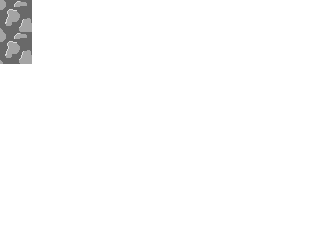
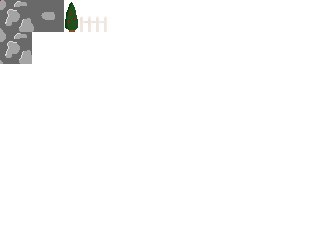
Fix plotting

Changed region(s): [[0.0938, 0.0, 0.3438, 0.1458]]

diff --git a/lib/maps/RayCastMap.js b/lib/maps/RayCastMap.js
@@ -21,8 +21,9 @@
 
 		},
 
-		set: function (x, y, w, h, depth, col, texX) {
+		set: function (x, y, w, h, depth, col, texX, i) {
 
+			this.i = i;
 			this.x = x;
 			this.y = y;
 			this.w = w;
@@ -38,23 +39,24 @@
 
 			var c = gfx.ctx;
 
-			if (!this.texX) {
+			if (this.texX === null) {
 
 				c.fillStyle = this.col;
 				c.fillRect(this.x, this.y, this.w, this.h);
 				return;
+
 			}
 
 			var scale = 1;
 			gfx.ctx.drawImage(
 				this.map.sheet,
-				this.texX % (16 * (1 - game.screen.player.depth)),
+				this.texX,
 				0,
-				this.w,
-				64,
+				1,
+				32,
 				this.x,
 				this.y,
-				this.w * scale,
+				this.w,
 				this.h);
 
 		}
@@ -122,17 +124,17 @@
 					//var strip = screenStrips[stripIdx];
 					var dist = Math.sqrt(hit.dist);
 
-					// use perpendicular distance to adjust for fish eye
 					// distorted_dist = correct_dist / cos(relative_angle_of_ray)
-					// DO THIS FOR FRACTALLL! dist = dist * Math.cos(rayAngle) / 4;//p.rotation - hit.angle);
-					dist = dist * Math.cos(rayAngle) / Math.max(1, game.screen.player.depth * 4);//p.rotation - hit.angle);
+					dist = dist * Math.cos(rayAngle) / Math.max(1, game.screen.player.depth * 1);//p.rotation - hit.angle);
 
 					// now calc the position, height and width of the wall strip
 					// "real" wall height in the game world is 1 unit, the distance from the player to the screen is viewDist,
 					// thus the height on the screen is equal to wall_height_real * viewDist / dist
-					var height = Math.round(viewDistance / dist);
-					var width = height * stripWidth;
-					var top = Math.round((Ω.env.h - height) / 2);
+					var height = viewDistance / dist | 0;
+					var width = (viewDistance / dist | 0) * stripWidth;
+					var top = (Ω.env.h - height) / 2;
+
+
 
 					var c = 100 - Math.min(100, (Math.abs(dist) + 1) * 13 | 0),
 						hitC = hit.cell || 10,
@@ -145,21 +147,15 @@
 
 						var texX = null;
 
-						if (hit.cell == 1) {
+						if (hit.cell < 10) {
 
-							texX = Math.round(hit.textureX * width) / 16;
-
-
-							if (texX > width - stripWidth)
-								texX = width - stripWidth;
-							//texX += (hit.shaded ? width : 0);
+							texX = ((hit.cell - 1) * 16) +  Math.floor(hit.textureX * 16);
 
 						}
-						strip.set(i * stripWidth, top, stripWidth, height, hit.dist, "hsl(" + (hitC * 30) + ", " + sat + "%, " + c + "%)", texX);
+						strip.set(i * stripWidth, top, stripWidth, height, hit.dist, "hsl(" + (hitC * 30) + ", " + sat + "%, " + c + "%)", texX, i);
 					} else {
-						strip.set(i * stripWidth, top, stripWidth, height, hit.dist, "hsl(" + (hitC * 30) + ", " + sat + "%, 0%)", null)
+						strip.set(i * stripWidth, top, stripWidth, height, hit.dist, "hsl(" + (hitC * 30) + ", " + sat + "%, 0%)", null, i)
 					}
-
 
 					rays.push({start: [p.x + p.w / 2, p.y + p.h / 2], end: [hit.x, hit.y]})
 				}

diff --git a/scripts/screens/MainScreen.js b/scripts/screens/MainScreen.js
@@ -11,16 +11,16 @@
 
 		init: function () {
 
-			this.player = new Player(16, 16);
+			this.player = new Player(32, 32);
 			this.map = new Ω.RayCastMap(this.sheet, [
-				[1,2,3,2,3,2,3,2,3,2,3,2,3,2,3,2,3,2,3,2,3,2,3,2,3,2,3,2,3,2,3,2,3,2,3,2,3,2,3,2,3,2,3,2,3,2,3,2,3,2,3,2,3,2,1],
-				[1,0,0,0,0,0,0,0,0,0,0,0,0,0,0,0,0,0,0,0,0,0,0,0,0,0,0,0,0,0,0,0,0,0,0,0,0,0,0,0,0,0,0,0,0,0,0,0,0,0,0,0,0,0,1],
-				[1,0,0,0,0,0,0,0,0,0,0,0,0,0,0,0,0,0,0,0,0,0,0,0,0,0,0,0,0,0,0,0,0,0,0,0,0,0,0,0,0,0,0,0,0,0,0,0,0,0,0,0,0,0,1],
-				[1,0,0,0,0,0,0,0,0,0,0,0,0,0,0,0,0,0,0,0,0,0,0,0,0,0,0,0,0,0,0,0,0,0,0,0,0,0,0,0,0,0,0,0,0,0,0,0,0,0,0,0,0,0,1],
-				[1,0,0,0,0,0,0,0,0,0,0,9,0,0,0,0,11,0,0,0,0,0,0,0,0,0,0,0,0,0,0,0,0,4,0,0,0,0,8,0,0,0,0,1,0,0,0,0,4,0,0,0,0,1,1],
-				[1,0,0,0,0,0,0,0,0,0,0,0,0,0,0,0,0,0,0,0,0,0,0,0,0,0,0,0,0,0,0,0,0,0,0,0,0,0,0,0,0,0,0,0,0,0,0,0,0,0,0,0,0,0,1],
-				[1,0,0,0,0,0,0,0,0,0,0,0,0,0,0,0,0,0,0,0,0,0,0,0,0,0,0,0,0,0,0,0,0,0,0,0,0,0,0,0,0,0,0,0,0,0,0,0,0,0,0,0,0,0,1],
-				[1,0,0,0,0,0,6,8,1,1,1,1,1,1,1,1,1,1,1,1,1,1,1,3,1,1,0,1,1,1,1,1,1,1,1,1,1,1,1,1,1,1,1,1,1,1,1,1,1,1,0,0,0,0,1],
+				[5,5,5,5,5,6,6,6,6,5,5,5,5,5,5,6,6,6,6,5,5,5,5,5,5,5,5,5,5,5,5,5,5,5,5,5,5,5,5,5,5,5,5,5,5,5,5,5,5,5,5,5,5,5,5],
+				[5,0,0,0,0,0,0,0,0,0,0,0,0,0,0,0,0,0,0,0,0,0,0,0,0,0,0,0,0,0,0,0,0,0,0,0,0,0,0,0,0,0,0,0,0,0,0,0,0,0,0,0,0,0,1],
+				[5,0,0,0,0,0,0,0,0,0,0,0,0,0,0,0,0,0,0,0,0,0,0,0,0,0,0,0,0,0,0,0,0,0,0,0,0,0,0,0,0,0,0,0,0,0,0,0,0,0,0,0,0,0,1],
+				[5,0,0,0,0,0,0,0,0,0,0,0,0,0,0,0,0,0,0,0,0,0,0,0,0,0,0,0,0,0,0,0,0,0,0,0,0,0,0,0,0,0,0,0,0,0,0,0,0,0,0,0,0,0,1],
+				[5,0,0,0,0,0,0,0,0,0,0,0,0,0,0,0,0,0,0,0,0,0,0,0,0,0,0,0,0,0,0,0,0,0,0,0,0,0,0,0,0,0,0,0,0,0,0,0,0,0,0,0,0,1,1],
+				[5,0,0,0,0,0,0,0,0,0,0,0,0,0,0,0,0,0,0,0,0,0,0,0,0,0,0,0,0,0,0,0,0,0,0,0,0,0,0,0,0,0,0,0,0,0,0,0,0,0,0,0,0,0,1],
+				[5,0,0,0,0,0,0,0,0,0,0,0,0,0,0,0,0,0,0,0,0,0,0,0,0,0,0,0,0,0,0,0,0,0,0,0,0,0,0,0,0,0,0,0,0,0,0,0,0,0,0,0,0,0,1],
+				[1,0,0,0,0,0,5,5,5,5,5,6,6,6,6,5,5,5,5,5,5,5,1,3,1,1,0,1,1,1,1,1,1,1,1,1,1,1,1,1,1,1,1,1,1,1,1,1,1,1,0,0,0,0,1],
 				[1,0,0,0,0,0,8,0,0,0,0,0,0,0,0,0,0,0,0,0,0,0,0,0,0,0,0,0,0,0,0,0,0,0,0,0,0,0,0,0,0,0,0,0,0,0,0,0,0,0,0,0,0,0,1],
 				[1,0,0,0,0,0,1,0,0,0,0,0,0,0,0,0,0,0,0,0,0,0,0,0,0,0,0,0,0,0,0,0,0,0,0,0,0,0,0,0,0,0,0,0,0,0,0,0,0,0,0,0,0,0,1],
 				[1,0,0,0,0,0,1,0,0,0,0,5,0,0,0,0,0,0,0,0,0,0,0,0,0,0,0,0,0,0,0,0,0,0,0,0,0,0,0,0,0,0,0,0,0,0,0,0,0,0,0,0,0,0,1],

diff --git a/scripts/entities/Tree.js b/scripts/entities/Tree.js
@@ -1,0 +1,47 @@
+(function (Ω) {
+
+	"use strict";
+
+	var Tree = Billboard.extend({
+
+		sheet: new Ω.SpriteSheet("res/images/sprites.png", 16, 16),
+
+		rotation: Ω.utils.deg2rad(0),
+		rotSpeed: Ω.utils.deg2rad(3),
+		speed: 4,
+
+		init: function (x, y, player) {
+
+			this.rnd = Ω.utils.rand(2000);
+
+			this.x = x;
+			this.y = y;
+
+			this.player = player;
+
+		},
+
+		tick: function (map) {
+
+			this._super(map);
+
+			this.top = Math.sin(this.rnd + (Date.now() / 200)) * 20;
+
+			return !(this.remove);
+
+		},
+
+		render: function (gfx) {
+
+			var c = gfx.ctx;
+
+			c.fillStyle = "hsl(220, 30%, 40%)";
+			this.sheet.render(gfx, 0, 0, this.px, this.py + this.top, 1, 1, this.size);
+
+		}
+
+	});
+
+	window.NeggyBones = NeggyBones;
+
+}(Ω));

diff --git a/lib/utils/rays.js b/lib/utils/rays.js
@@ -30,7 +30,7 @@
 				wallY,
 				wallX2,
 				wallY2,
-				textureX,
+				textureX = 0,
 				shaded = false,
 
 				slope = sin / cos,
@@ -58,8 +58,8 @@
 					xHit = x;
 					yHit = y;
 
-					textureX = y % 1;	// where exactly are we on the wall? textureX is the x coordinate on the texture that we'll use later when texturing the wall.
-					if (!right) textureX = 1 - textureX; // if we're looking to the left side of the map, the texture should be reversed
+					textureX = y % 1;
+					if (!right) textureX = 1 - textureX;
 
 					shaded = true;
 					break;
@@ -99,7 +99,7 @@
 						xHit = x;
 						yHit = y;
 						textureX = x % 1;
-						if (up) textureX = 1 - textureX;
+						if (!up) textureX = 1 - textureX;
 					}
 					break;
 				}
